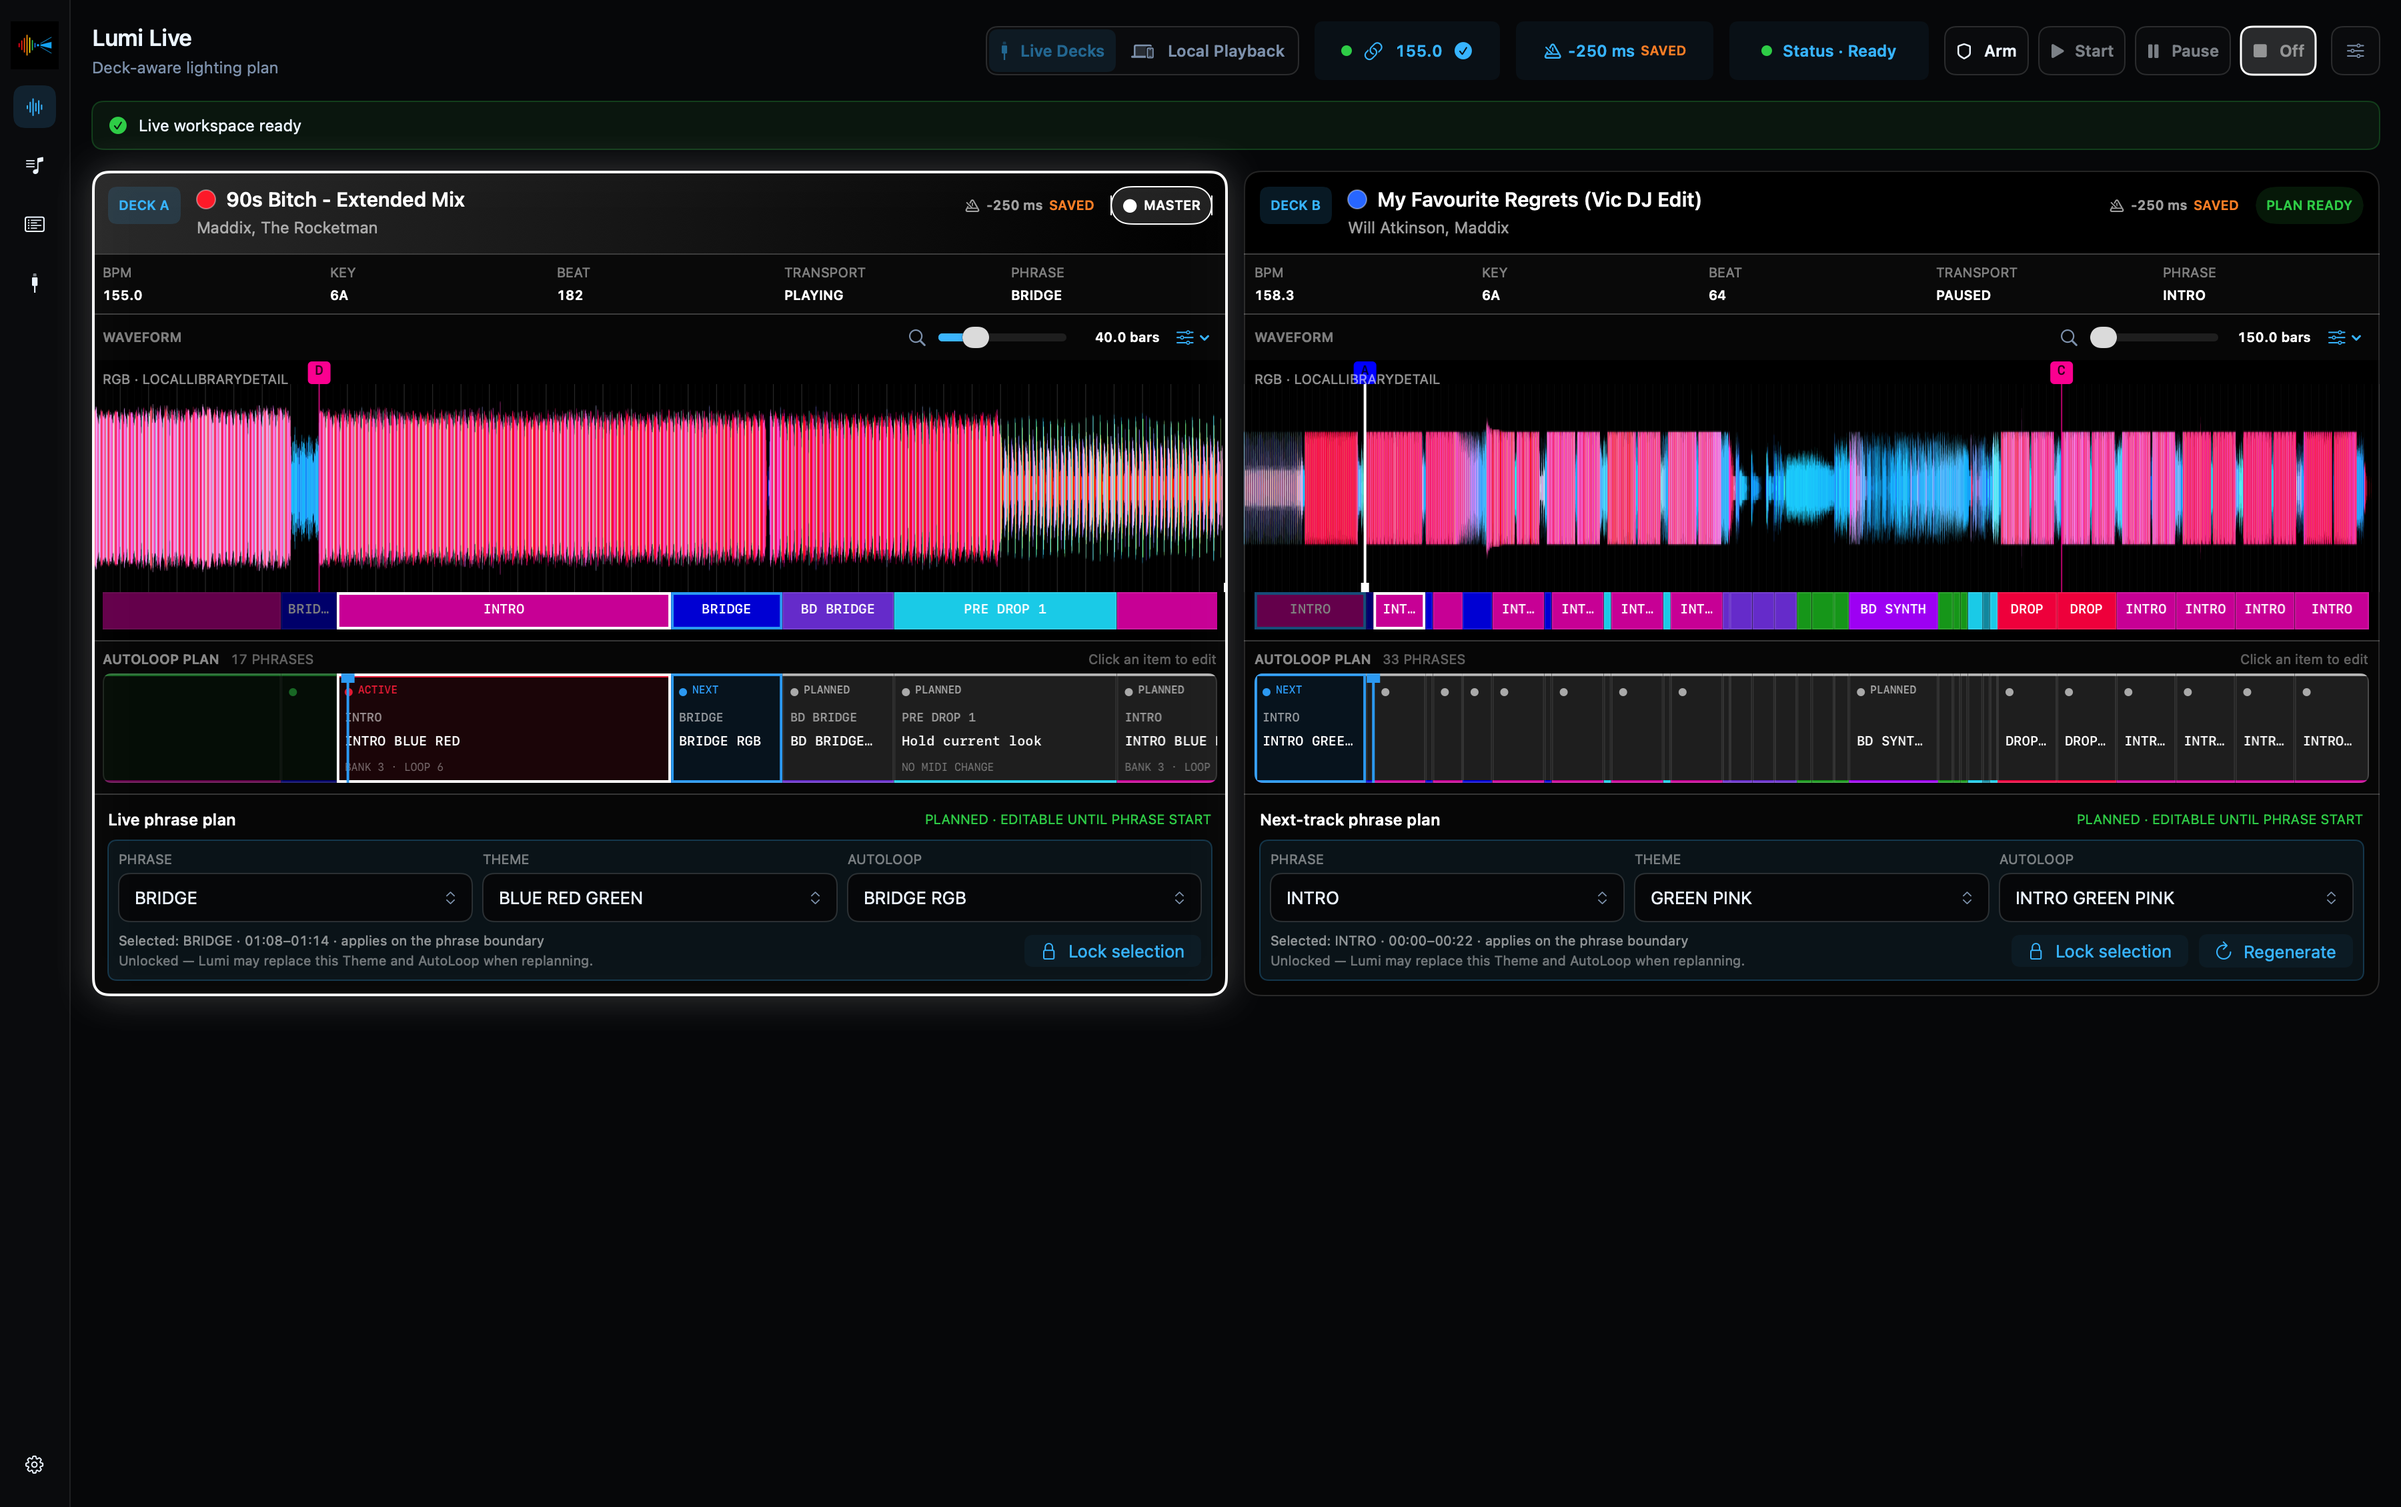
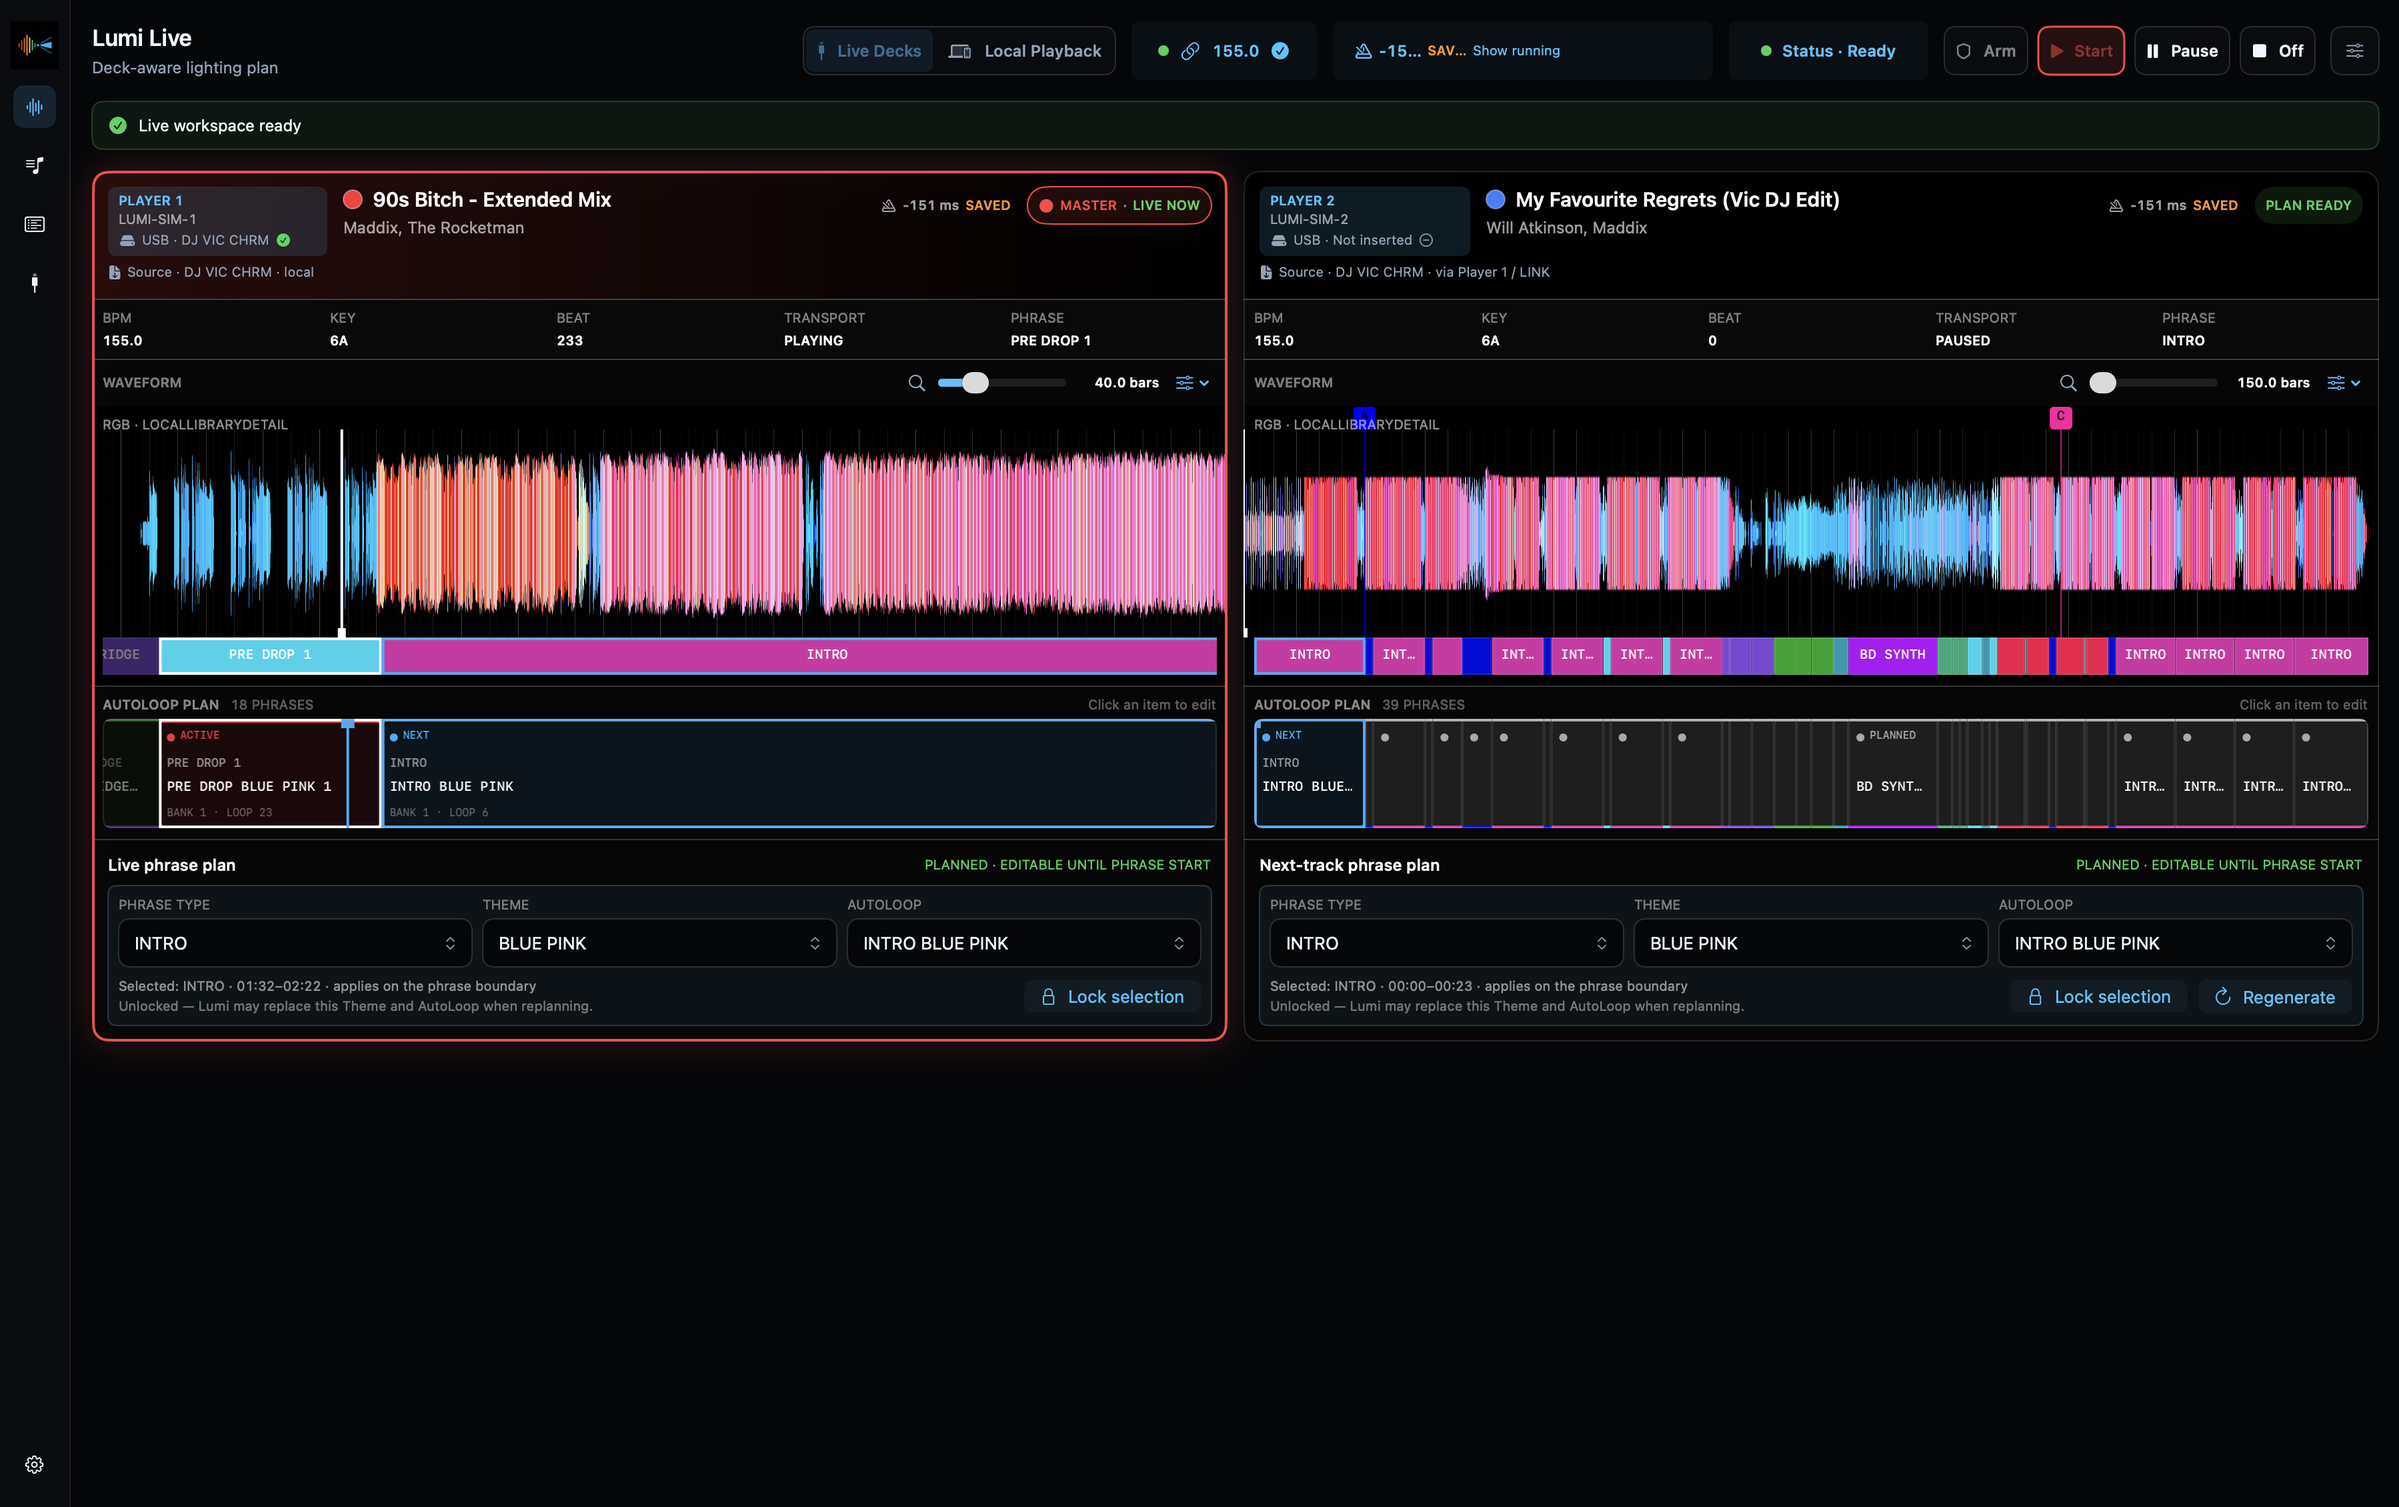
docs: showcase Lumi architecture and running Live view (#184)
## Summary
- Feature the approved architecture illustration near the top of the
repository README and documentation homepage.
- Add a user-facing explanation of USB preparation, live input, separate
MIDI/tempo outputs and iPhone Remote.
- Include the overview in the architecture documentation.
- Replace the Live Decks screenshot with the user-provided original,
accurately captioned as simulator-driven Live mode.

## Validation
- Documentation verification passed (276 Markdown files, 4 SVGs, 22
PNGs).
- git diff --check passed.
- Asset SHA-256 checks match the approved architecture and original user
screenshot exactly.
- Documentation only: no app, service, library or release asset changes.

diff --git a/docs/user-guide/how-lumi-works.md b/docs/user-guide/how-lumi-works.md
@@ -1,0 +1,60 @@
+# How Lumi fits into your setup
+
+Lumi connects your prepared music library to your live lighting choices.
+Everything runs locally: the Mac owns the show, the iPhone is a remote,
+and SoundSwitch controls the fixtures.
+
+[![Lumi architecture showing USB sync and live Pro DJ Link input, the local Mac engine, iPhone Remote, and SoundSwitch MIDI and tempo outputs](../assets/architecture/lumi-architecture.png)](../assets/architecture/lumi-architecture.png)
+
+*Illustrated example setup. Control One is optional. Wireless DMX requires
+suitable hardware. Click the image to view the full-size original.*
+
+## Prepare from USB
+
+Export your tracks from rekordbox to USB, then select the playlists to sync
+into Lumi. The local library stores imported analysis and your Lumi phrases;
+the engine uses them to prepare Light Plans before playback.
+
+[USB sync and the local library](usb-sync-and-library.md)
+
+## Follow the live Players
+
+The Pro DJ Link bridge supplies track, source, position and BPM information.
+The engine matches the loaded track to the library and executes its plan.
+The macOS interface displays and controls that state; it is not the timing engine.
+
+![Lumi Live Decks in Start mode, with an active Master and a prepared next Player](../assets/screenshots/live-decks.png)
+
+This actual Live view was captured using the Pro DJ Link simulator. Player 1
+is playing **90s Bitch**; Player 2 holds **My Favourite Regrets**, loaded over
+LINK from Player 1's USB. The source of a loaded track and the USB physically
+inserted in its Player are shown separately.
+
+## Send lighting choices and tempo separately
+
+- **MIDI** selects the mapped SoundSwitch AutoLoops and verified Static Looks.
+- **Carabiner / Ableton Link** carries the master tempo to SoundSwitch.
+- **SoundSwitch** runs the lighting effects and sends DMX through its interface.
+
+These are separate paths: sharing tempo is not proof of the physical lights'
+beat alignment. Test your complete setup and timing before a show.
+Control One can also remain available for manual operation alongside Lumi.
+
+## Control from iPhone
+
+Lumi Remote connects to the Mac's separate Remote Gateway over the local network
+using paired, pinned TLS. It displays Live state and sends supported controls;
+it does not carry audio or sit in the lighting execution path. Disconnecting
+the phone does not stop the Mac's show.
+
+[Install and pair Lumi Remote](iphone-remote.md)
+
+## Under the hood
+
+The Mac interface uses SwiftUI; the engine and Remote Gateway use Rust.
+The Pro DJ Link bridge uses Java, while Carabiner provides the Ableton Link
+connection. The illustration is an overview, not an exact process or network
+protocol diagram. For implementation details, see the
+[architecture documents and decisions](../architecture/README.md).
+
+[Back to the user guide](README.md)

diff --git a/README.md b/README.md
@@ -45,7 +45,15 @@ normal controller.
 current Master and next Player, monitor all three integrations and adjust a
 future Theme or AutoLoop without returning to the Mac.
 
-![Lumi Live Decks with the current and next track side by side](docs/assets/screenshots/live-decks-intro.png)
+## How Lumi fits into your setup
+
+[![Lumi architecture: rekordbox USB and Pro DJ Link feed the local engine, with iPhone control and separate MIDI and Ableton Link outputs to SoundSwitch](docs/assets/architecture/lumi-architecture.png)](docs/assets/architecture/lumi-architecture.png)
+
+Prepare your library from USB, follow the live Players, and let Lumi trigger
+your SoundSwitch lighting. Control One is an example interface, not a requirement;
+SoundSwitch owns the fixtures and DMX output. Wireless DMX requires suitable hardware.
+
+[Explore the signal path](docs/user-guide/how-lumi-works.md).
 
 ## Lumi Remote for iPhone
 
@@ -95,7 +103,10 @@ Master and its active Light Plan on the left, the loaded next track and editable
 future choices on the right. Exact Library matches reuse the same detailed RGB
 waveform, beatgrid, Hot Cues and Lumi phrases as Track Editor.
 
-![Lumi Live Decks with two recognized Pro DJ Link players](docs/assets/screenshots/live-decks.png)
+![Lumi Live Decks in Start mode: 90s Bitch playing as Master and My Favourite Regrets ready on Player 2](docs/assets/screenshots/live-decks.png)
+
+Live view captured with the Pro DJ Link simulator: Player 1 is playing, and
+Player 2 has loaded its track over LINK from Player 1's USB source.
 
 ### Bring your USB playlists into a local lighting library
 

diff --git a/docs/index.md b/docs/index.md
@@ -38,7 +38,22 @@ Only consider it on a trusted DJ network; restore protection after use.
 > compatible DJ and lighting setups. Read the [beta test guidance](public-beta.md)
 > and complete a dry run before relying on it during a show.
 
-![Lumi Local Playback running a prepared two-track show](assets/screenshots/local-playback.png)
+## How Lumi fits into your setup
+
+[![Lumi architecture: USB preparation, live Players, local engine, iPhone Remote and SoundSwitch output](assets/architecture/lumi-architecture.png)](assets/architecture/lumi-architecture.png)
+
+Your USB collection becomes a prepared local library. Live Player state drives
+the plan, while SoundSwitch handles the fixtures and DMX. Control One is one
+example interface; wireless DMX needs suitable hardware.
+
+[See how the parts work together](user-guide/how-lumi-works.md).
+
+## The show in Live Decks
+
+![Lumi in Start mode with 90s Bitch playing as Master and My Favourite Regrets ready on Player 2](assets/screenshots/live-decks.png)
+
+Captured with the Pro DJ Link simulator, with Player 2 loading over LINK from
+Player 1's USB source. This is the Live Decks workflow, not Local Playback.
 
 ## Take Live Decks into the booth
 

diff --git a/docs/architecture/README.md b/docs/architecture/README.md
@@ -5,6 +5,13 @@ Decision Records (ADR's) die de belangrijkste besluiten vastleggen.
 
 ## Documenten
 
+- [Visueel overzicht: hoe de onderdelen samenwerken](../user-guide/how-lumi-works.md)
+
+[![Lumi: USB-library, live Players, engine, Remote en SoundSwitch](../assets/architecture/lumi-architecture.png)](../assets/architecture/lumi-architecture.png)
+
+De illustratie toont een voorbeeldopstelling met Control One; de technische
+schema's en ADR's hieronder beschrijven de precieze grenzen en protocollen.
+
 - [Architectuurdesign](design.md)
 - [Functionele architectuurplaten](visual-overview.md)
 - [ADR-0001: Autonome engine en losse clients](adr/0001-autonome-engine-en-losse-clients.md)

diff --git a/docs/architecture/visual-overview.md b/docs/architecture/visual-overview.md
@@ -8,6 +8,12 @@ werking van Lumi en het functionele gat dat Lumi invult.
 
 ## Plaat 1 – Totale oplossing
 
+[![Lumi-overzicht met USB-sync, Pro DJ Link, Remote en SoundSwitch](../assets/architecture/lumi-architecture.png)](../assets/architecture/lumi-architecture.png)
+
+Deze illustratie toont de gebruikersopstelling. Control One is optioneel;
+de onderstaande schema's geven de functionele details weer. Zie ook de
+[Engelstalige uitleg voor gebruikers](../user-guide/how-lumi-works.md).
+
 ```mermaid
 flowchart TB
   subgraph preparation["Voorbereiding"]

diff --git a/docs/user-guide/README.md b/docs/user-guide/README.md
@@ -1,5 +1,7 @@
 # Lumi user guide
 
+New to the setup? [See how Lumi, your Players, iPhone and SoundSwitch work together](how-lumi-works.md).
+
 Lumi prepares and runs phrase-aware SoundSwitch lighting for the track that is
 playing and the track that is coming next. This guide covers the shortest path
 from an empty Lumi library to a working local or Pro DJ Link show.
